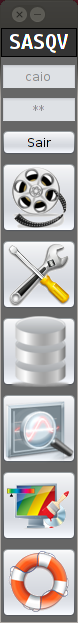
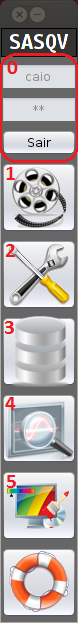
ajuda: introducao

diff --git a/layouts/GimpStyle/src/helpdocs/index.html b/layouts/GimpStyle/src/helpdocs/index.html
@@ -7,102 +7,13 @@
 			<h1><center>Welcome</center></h1>
 		</div>
 		<div id="conteudo">
-			<p><h2>Este é o maravilhoso SASQV help!</h2></p>
-			<br></br>
-			<br></br>
-			<br></br>
-			<br></br>
-			<br></br>
-			<br></br>
-			<br></br>
-			<br></br>
-			<br></br>
-			<br></br>
-			<br></br>
-			<br></br>
-			<br></br>
-			<br></br>
-			<br></br>
-			<br></br>
-			<br></br>
-			<br></br>
-			<br></br>
-			<br></br>
-			<br></br>
-			<br></br>
-			<br></br>
-			<br></br>
-			<br></br>
-			<br></br>
-			<br></br>
-			<br></br>
-			<br></br>
-			<br></br>
-			<br></br>
-			<br></br>
-			<br></br>
-			<br></br>
-			<br></br>
-			<br></br>
-			<br></br>
-			<br></br>
-			<br></br>
-			<br></br>
-			<br></br>
-			<br></br>
-			<br></br>
-			<br></br>
-			<br></br>
-			<br></br>
-			<br></br>
-			<br></br>
-			<br></br>
-			<br></br>
-			<br></br>
-			<br></br>
-			<br></br>
-			<br></br>
-			<br></br>
-			<br></br>
-			<br></br>
-			<br></br>
-			<br></br>
-			<br></br>
-			<br></br>
-			<br></br>
-			<br></br>
-			<br></br>
-			<br></br>
-			<br></br>
-			<br></br>
-			<br></br>
-			<br></br>
-			<br></br>
-			<br></br>
-			<br></br>
-			<br></br>
-			<br></br>
-			<br></br>
-			<br></br>
-			<br></br>
-			<br></br>
-			<br></br>
-			<br></br>
-			<br></br>
-			<br></br>
-			<br></br>
-			<br></br>
-			<br></br>
-			<br></br>
-			<br></br>
-			<br></br>
+			<p><h2>Este é o maravilhoso SASQV2 help!</h2></p>
 		</div>
 		<a name="teste"></a>
 		<div id="footer">
-			SQSQV - Sistema de Avaliação Subjetiva e Qualidade de Vídeo
-			<br>Curitiba, junho de 2012.</br>
+			SQSQV2 - Sistema de Avaliação Subjetiva e Qualidade de Vídeo
+			<br>Curitiba, julho de 2012.</br>
 			<br>Autores: Caio Andreatta e Brunno Braga</br>
-			<br>blabla...</br>
 		</div>
 	</body>
 </html>

diff --git a/layouts/GimpStyle/src/helpdocs/introducao.html b/layouts/GimpStyle/src/helpdocs/introducao.html
@@ -1,3 +1,37 @@
 <html>
-	<h1><center>Introdução</center></h1>
+	<head>
+		<link rel="styleSheet" type="text/css" href="style.css"/>
+	</head>
+	<body>
+		<div id="header">
+			<h1><center>Introdução</center></h1>
+		</div>
+		
+		<div id="conteudo">
+			<p>A tela inicial do SASQV2 apresenta os seguintes componentes:</p>
+			
+			<img src="principal.png"/>
+			
+			<dl>
+				<dt><b>0.</b> Login</dt>
+				<dd>- Oferece os campos para entrada de usuário e senha, permitindo o uso da aplicação.</dd>
+				<dt><b>1.</b> Gerenciador de sessão</dt>
+				<dd>- Inicia a tela de gerenciamento de sessão, onde é possível executar sessões de avaliação subjetiva.</dd>
+				<dt><b>2.</b> Ferramentas</dt>
+				<dd>- Inicia a tela de ferramentas, dando acesso às ferramentas de degradação e avaliação objetiva.</dd>
+				<dt><b>3.</b> Gerenciador de dados</dt>
+				<dd>- Inicia o Gerenciador de dados, permitindo gerenciar usuários e vídeos da base de dados.</dd>
+				<dt><b>4.</b> Visualizador de resultados</dt>
+				<dd>- Abre o visualizador gráfico de resultados</dd>
+				<dt><b>5.</b> Configurações</dt>
+				<dd>- Abre um diálogo que permite configurar aspectos básicos do sistema.</dd>
+			</dl>
+		</div>
+		
+		<div id="footer">
+			SQSQV2 - Sistema de Avaliação Subjetiva e Qualidade de Vídeo
+			<br>Curitiba, julho de 2012.</br>
+			<br>Autores: Caio Andreatta e Brunno Braga</br>
+		</div>
+	</body>
 </html>
